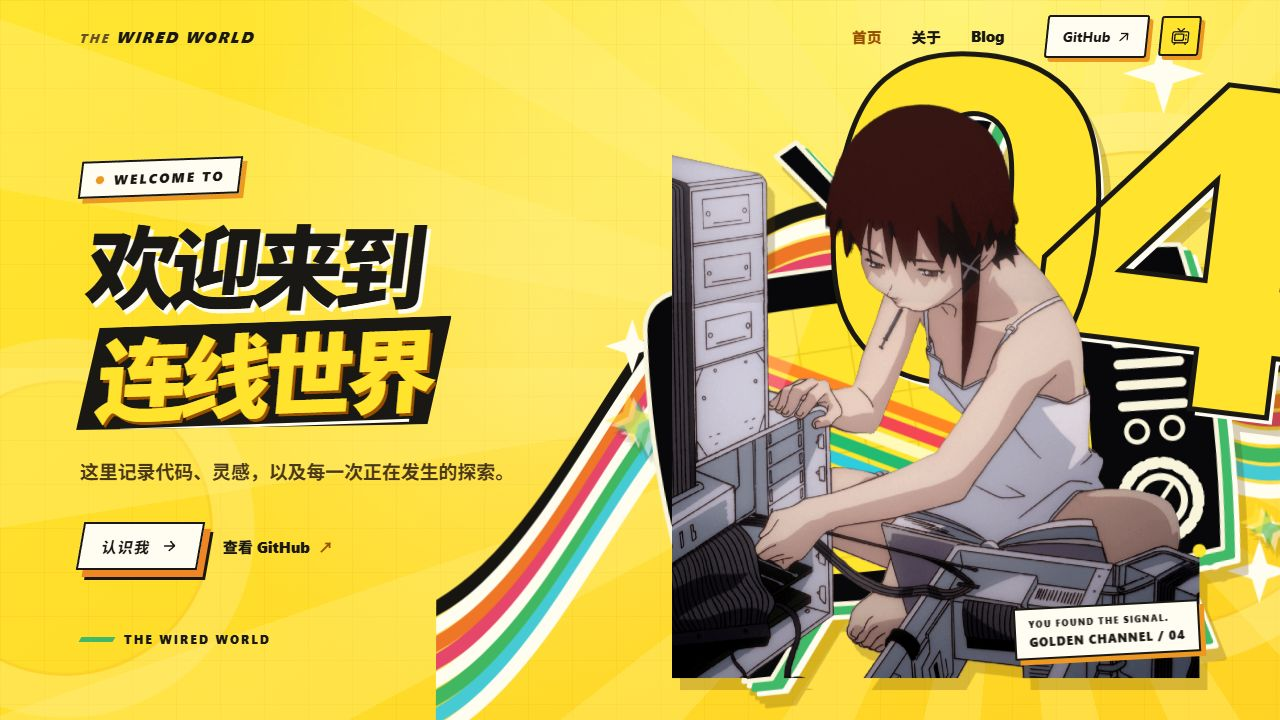
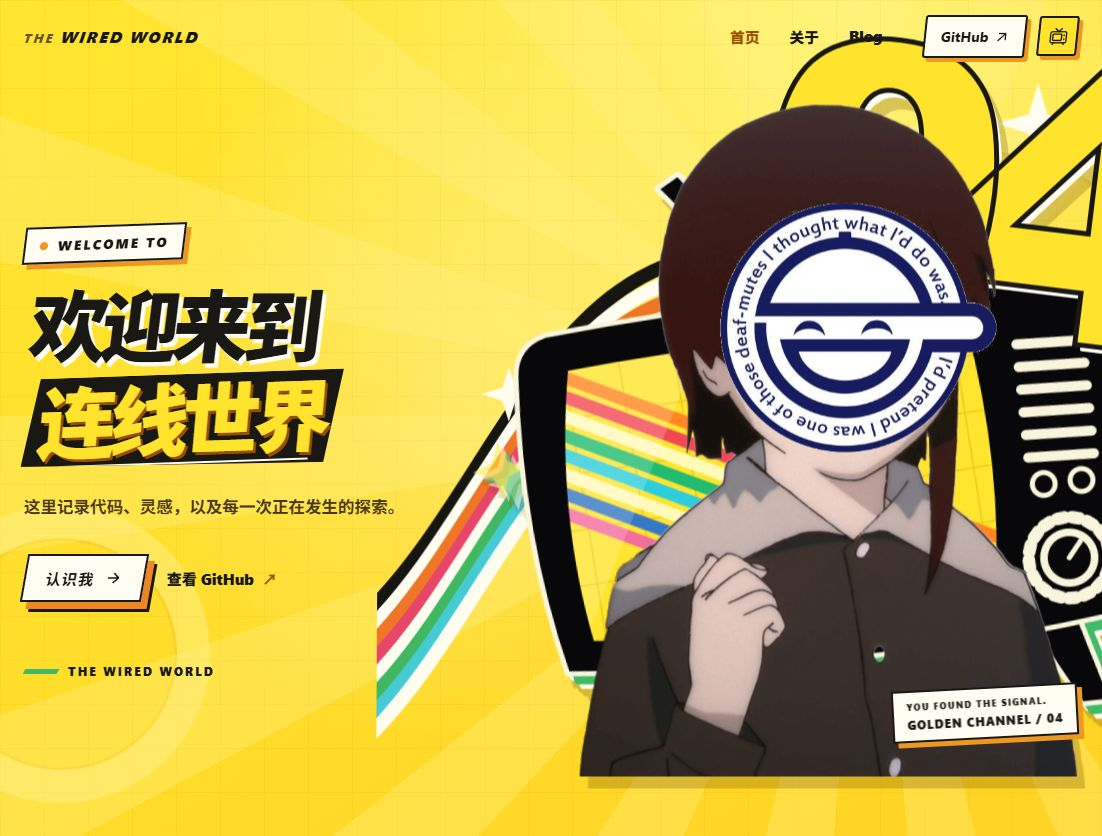
Enlarge golden theme hero television

diff --git a/src/styles/golden-theme.css b/src/styles/golden-theme.css
@@ -154,7 +154,7 @@ html[data-theme="golden"] .hero-golden-television {
   z-index: -1;
   top: 50%;
   left: 50%;
-  width: 134%;
+  width: 152%;
   height: auto;
   pointer-events: none;
   transform: translate(-50%, -50%) rotate(-6deg);
@@ -275,7 +275,7 @@ html[data-theme="golden"] .television-hint { color: #ffe32d; }
 }
 @media (max-width: 520px) {
   html[data-theme="golden"] .hero h1 { font-size: clamp(2.8rem, 13vw, 4.3rem); }
-  html[data-theme="golden"] .hero-golden-television { width: 132%; filter: drop-shadow(4px 4px 0 #40b968) drop-shadow(3px 3px 0 #fffdf2); }
+  html[data-theme="golden"] .hero-golden-television { top: 60%; width: 146%; filter: drop-shadow(4px 4px 0 #40b968) drop-shadow(3px 3px 0 #fffdf2); }
   html[data-theme="golden"] .hero-visual-number { top: -8%; right: -18%; font-size: clamp(12rem, 52vw, 19rem); -webkit-text-stroke-width: 3px; }
   html[data-theme="golden"] .golden-channel { font-size: .45rem; padding: 5px 8px; }
   html[data-theme="golden"] .golden-channel b { font-size: .56rem; }
